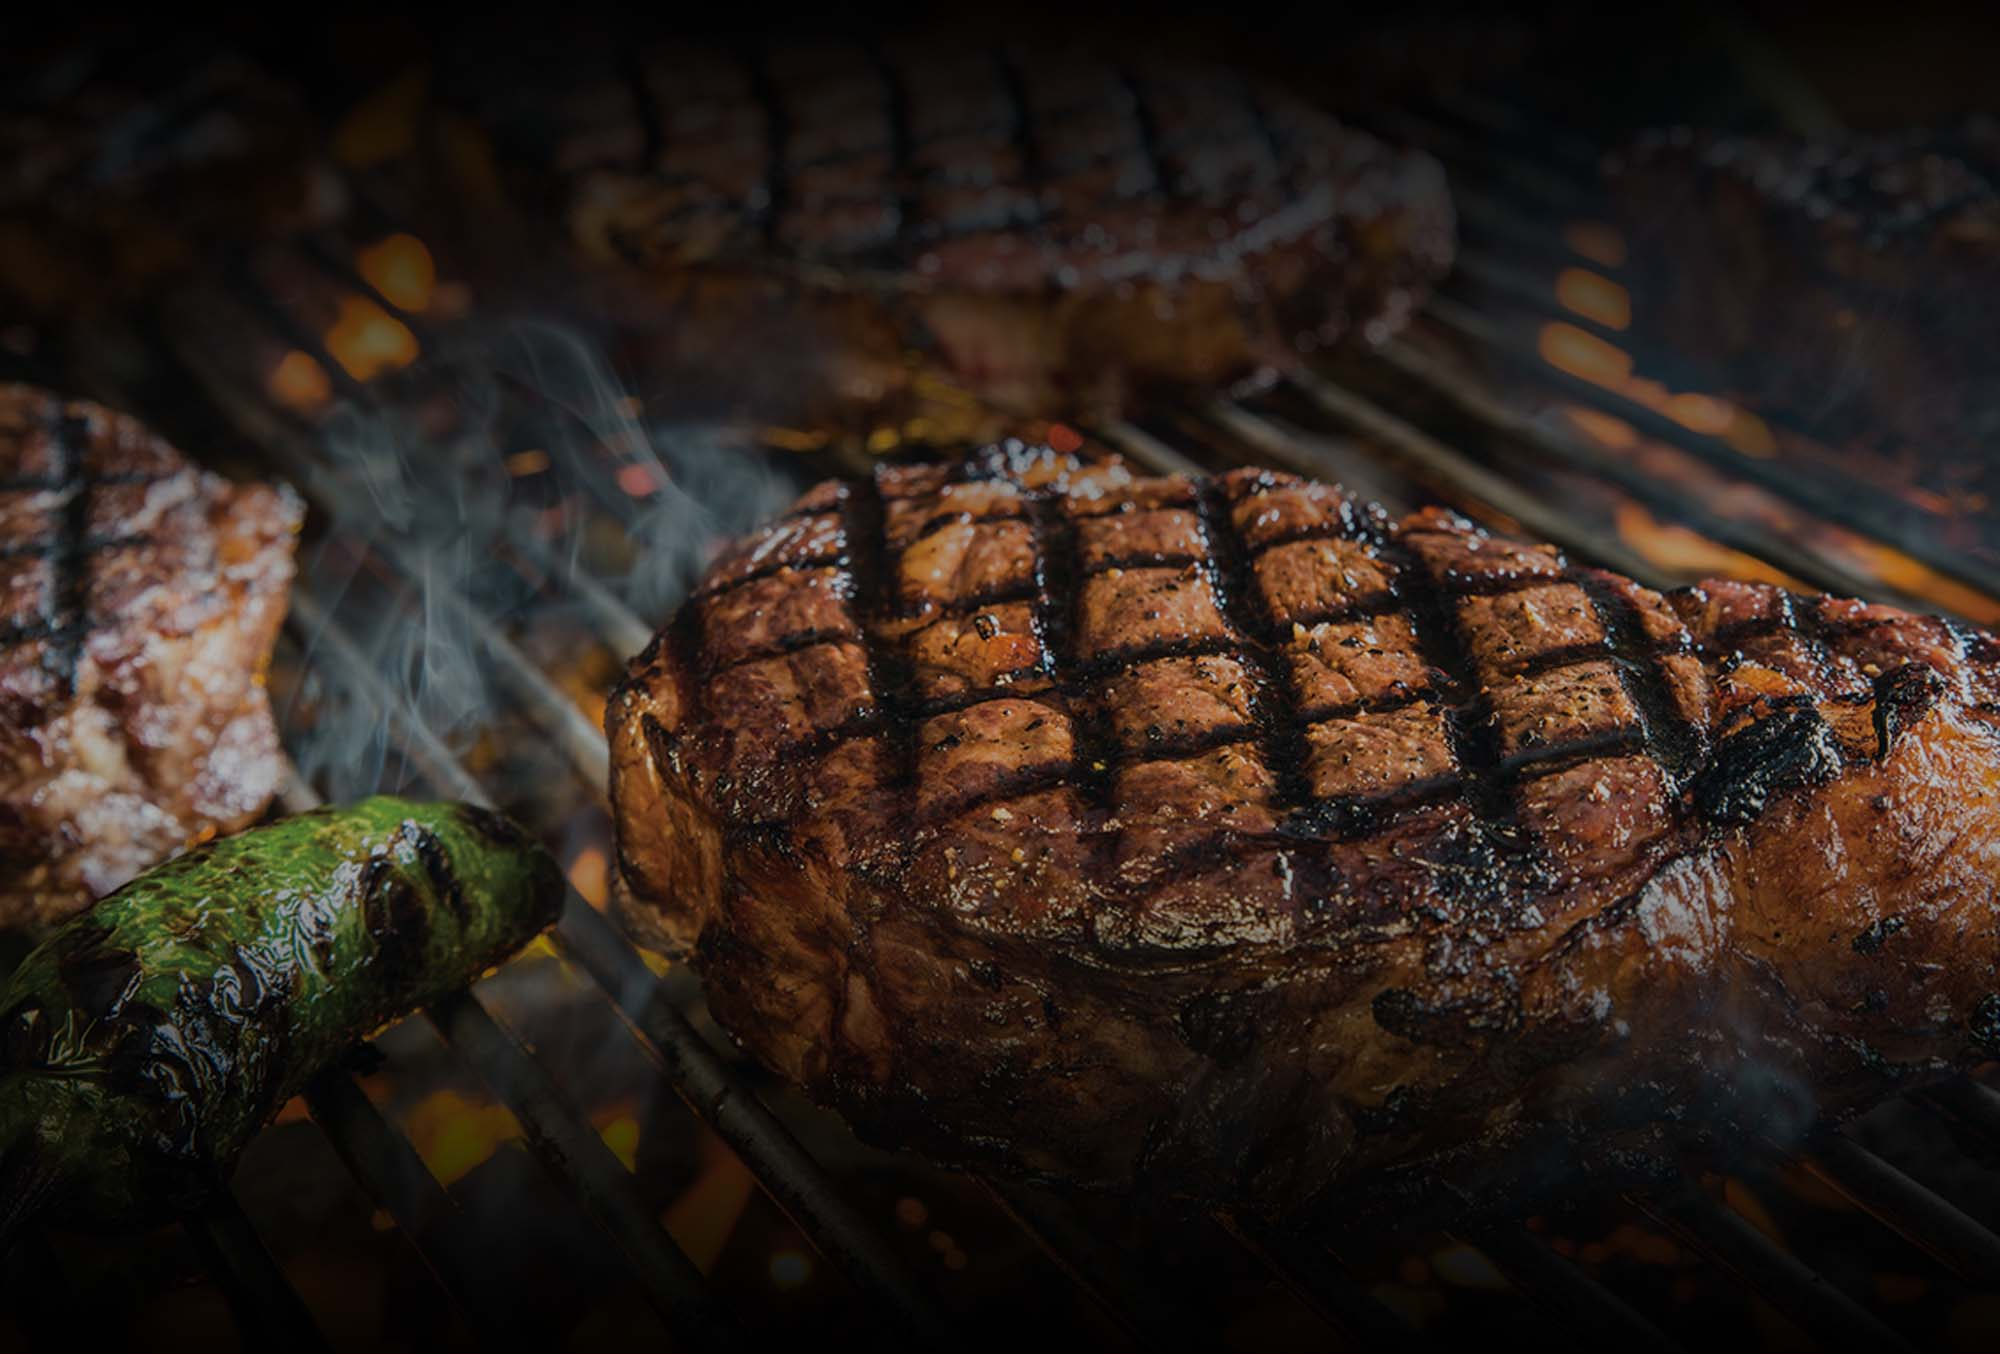
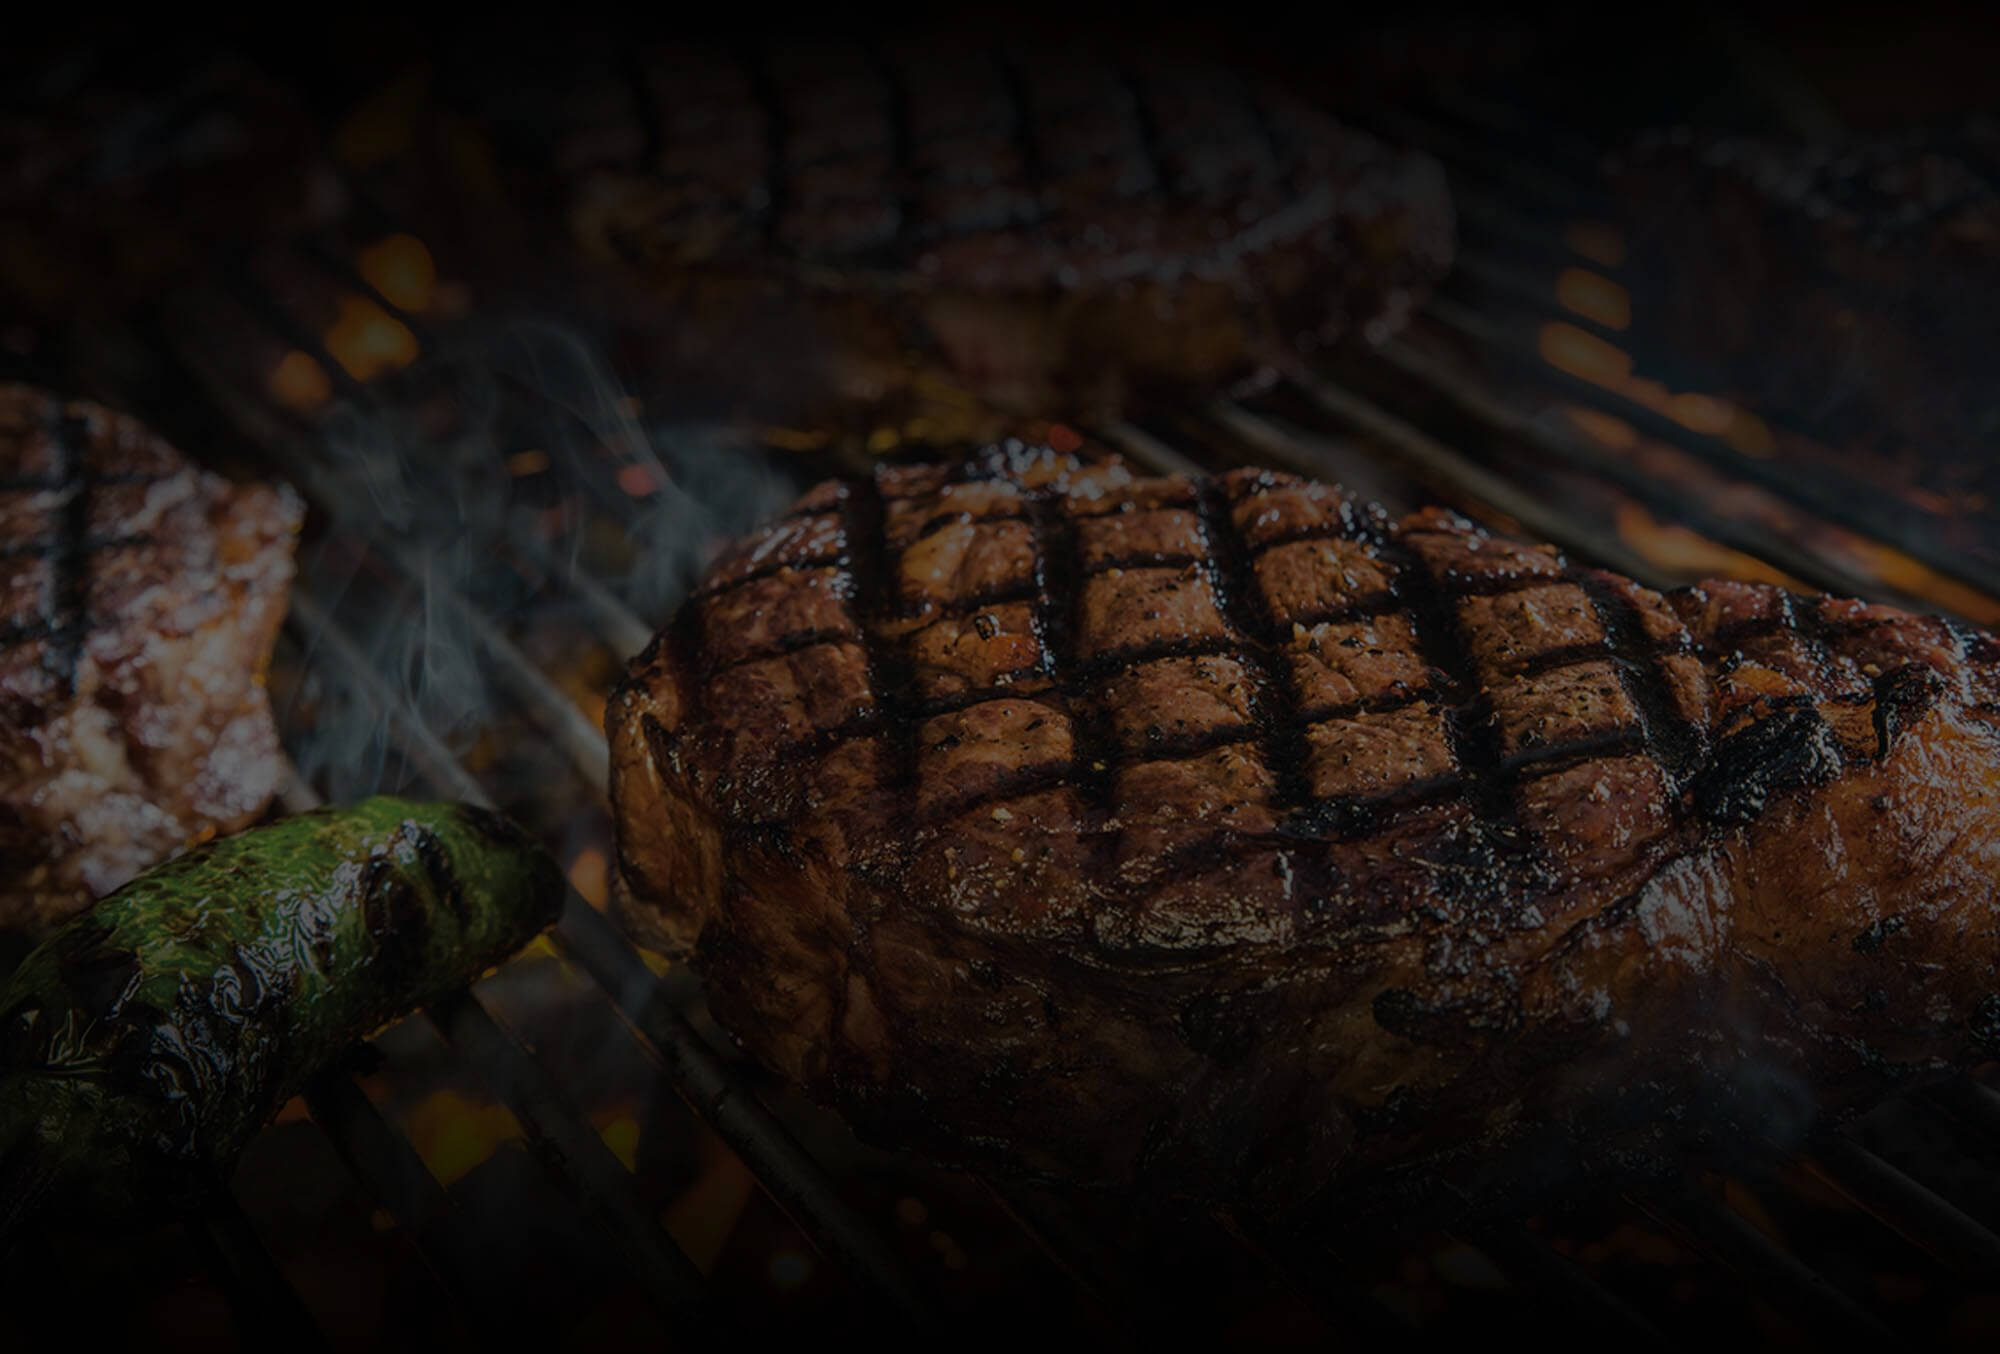
Update promo sections

diff --git a/app/pods/components/store-hours/component.js b/app/pods/components/store-hours/component.js
@@ -3,33 +3,37 @@ import { computed, get } from '@ember/object';
 import { isAfter, isBefore } from 'date-fns';
 
 export default Component.extend({
-  classNames: ['store-hours'],
+  tagName: '',
 
   hours: null,
-  type: 'Store',
+  hourType: 'Store',
 
-  hoursForType: computed('hours.@each.{type,activeStartDate,activeEndDate}', 'type', function() {
-    let now = new Date();
+  hoursForType: computed(
+    'hours.@each.{type,activeStartDate,activeEndDate}',
+    'hourType',
+    function() {
+      let now = new Date();
 
-    // Get the hours set to be used during the time frame.
-    let storeHours = this.hours.filter(hour => {
-      if (
-        get(hour, 'type') === this.type &&
-        (isAfter(now, hour.activeStartDate) && isBefore(now, hour.activeEndDate))
-      ) {
-        return hour;
-      }
-    });
-
-    // Get the hours marked as `default`
-    if (get(storeHours, 'length') === 0) {
-      storeHours = this.hours.filter(hour => {
-        if (get(hour, 'type') === this.type && get(hour, 'default')) {
+      // Get the hours set to be used during the time frame.
+      let storeHours = this.hours.filter(hour => {
+        if (
+          get(hour, 'type') === this.hourType &&
+          (isAfter(now, hour.activeStartDate) && isBefore(now, hour.activeEndDate))
+        ) {
           return hour;
         }
       });
-    }
 
-    return get(storeHours, 'firstObject');
-  }),
+      // Get the hours marked as `default`
+      if (get(storeHours, 'length') === 0) {
+        storeHours = this.hours.filter(hour => {
+          if (get(hour, 'type') === this.hourType && get(hour, 'default')) {
+            return hour;
+          }
+        });
+      }
+
+      return get(storeHours, 'firstObject');
+    }
+  ),
 });

diff --git a/app/tailwind/config.js b/app/tailwind/config.js
@@ -1,3 +1,6 @@
+// eslint-disable-next-line no-undef
+const defaultTheme = require('tailwindcss/defaultTheme');
+
 /* eslint-disable-next-line */
 module.exports = {
   theme: {
@@ -8,8 +11,13 @@ module.exports = {
       colors: {
         overlay: 'rgba(51,51,51,.75)',
       },
+      fontFamily: {
+        sans: ['"Source Sans Pro"', ...defaultTheme.fontFamily.sans],
+      },
     },
   },
-  variants: {},
+  variants: {
+    borderWidth: ['responsive', 'hover'],
+  },
   plugins: [],
 };

diff --git a/app/index.html b/app/index.html
@@ -1,5 +1,5 @@
 <!DOCTYPE html>
-<html>
+<html lang="en">
   <head>
     <meta charset="utf-8">
     <meta http-equiv="X-UA-Compatible" content="IE=edge">
@@ -20,7 +20,7 @@
 
     {{content-for "head-footer"}}
   </head>
-  <body>
+  <body class="font-sans">
     {{content-for "body"}}
 
     <script src="{{rootURL}}assets/vendor.js"></script>

diff --git a/app/pods/components/promo-section/component.js b/app/pods/components/promo-section/component.js
@@ -1,10 +1,7 @@
 import Component from '@ember/component';
 
 export default Component.extend({
-  tagName: 'section',
-  classNames: ['butcher-promo'],
-  classNameBindings: ['specialHours:special-hours', 'darken:darken'],
+  tagName: '',
 
-  specialHours: false,
-  darken: false,
+  image: null,
 });

diff --git a/app/mixins/mobile-app-mixin.js b/app/mixins/mobile-app-mixin.js
@@ -3,7 +3,8 @@ import { inject as service } from '@ember/service';
 import Mixin from '@ember/object/mixin';
 
 export default Mixin.create({
-  mobileApp: service('mobile-app'),
+  mobileApp: service(),
+
   isMobileApp: bool('mobileApp.isMobileApp'),
 
   beforeModel(params) {

diff --git a/app/pods/application/controller.js b/app/pods/application/controller.js
@@ -3,7 +3,7 @@ import { inject as service } from '@ember/service';
 import { bool } from '@ember/object/computed';
 
 export default Controller.extend({
-  mobileApp: service('mobile-app'),
+  mobileApp: service(),
 
   isMobileApp: bool('mobileApp.isMobileApp'),
 });

diff --git a/app/helpers/html-safe.js b/app/helpers/html-safe.js
@@ -1,0 +1,8 @@
+import { helper } from '@ember/component/helper';
+import { htmlSafe } from '@ember/template';
+
+export function htmlSafeHelper(params) {
+  return htmlSafe(params[0]);
+}
+
+export default helper(htmlSafeHelper);

diff --git a/app/pods/components/scroll-to-section/component.js b/app/pods/components/scroll-to-section/component.js
@@ -6,7 +6,7 @@ export default Component.extend({
   tagName: 'section',
 
   scroll: service(),
-  mobileApp: service('mobile-app'),
+  mobileApp: service(),
 
   shouldScroll: false,
   selector: null,

diff --git a/app/styles/app.css b/app/styles/app.css
@@ -4,6 +4,11 @@
 
 @tailwind utilities;
 
+/* Additional Tailwind Utilities */
+.text-shadow {
+  text-shadow: 1px 1px 1px theme('colors.black');
+}
+
 
 /* Ember Basic Dropdown */
 
